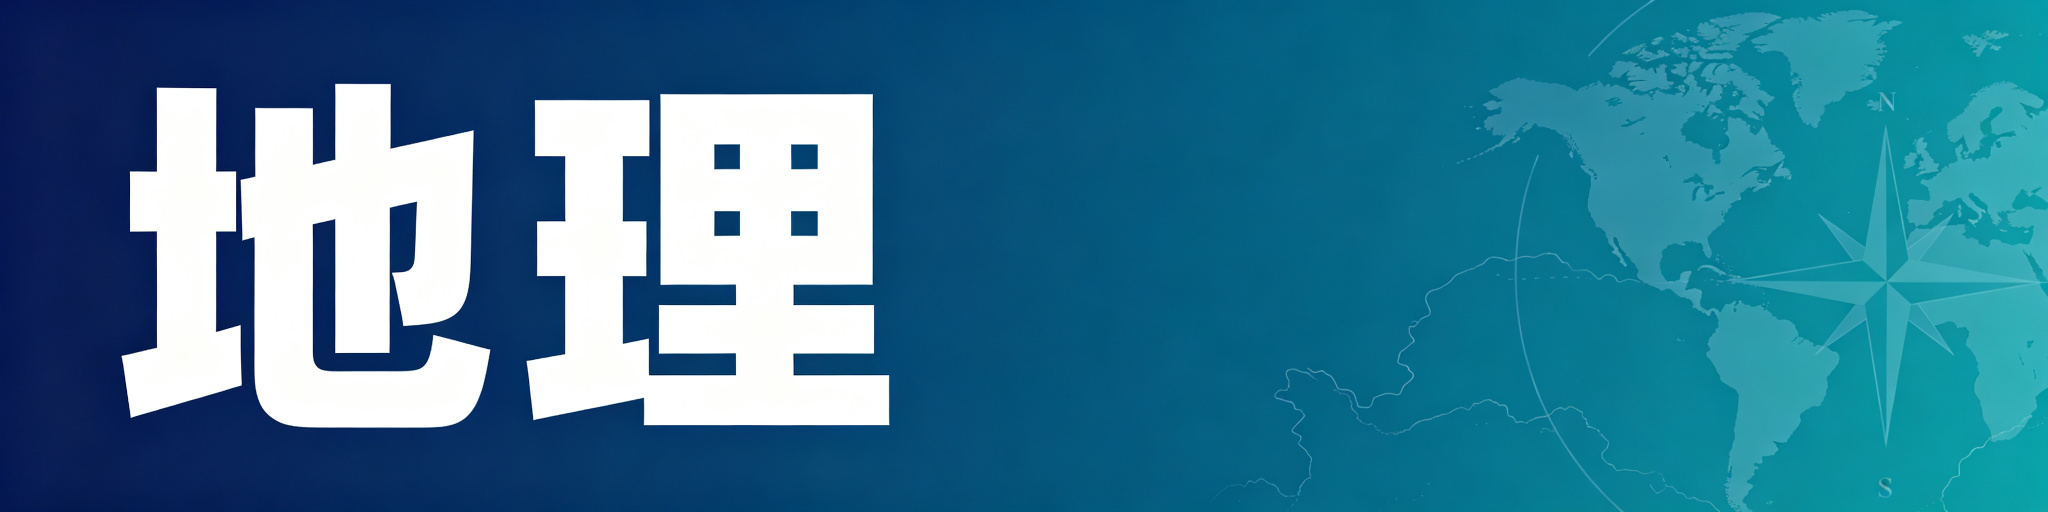
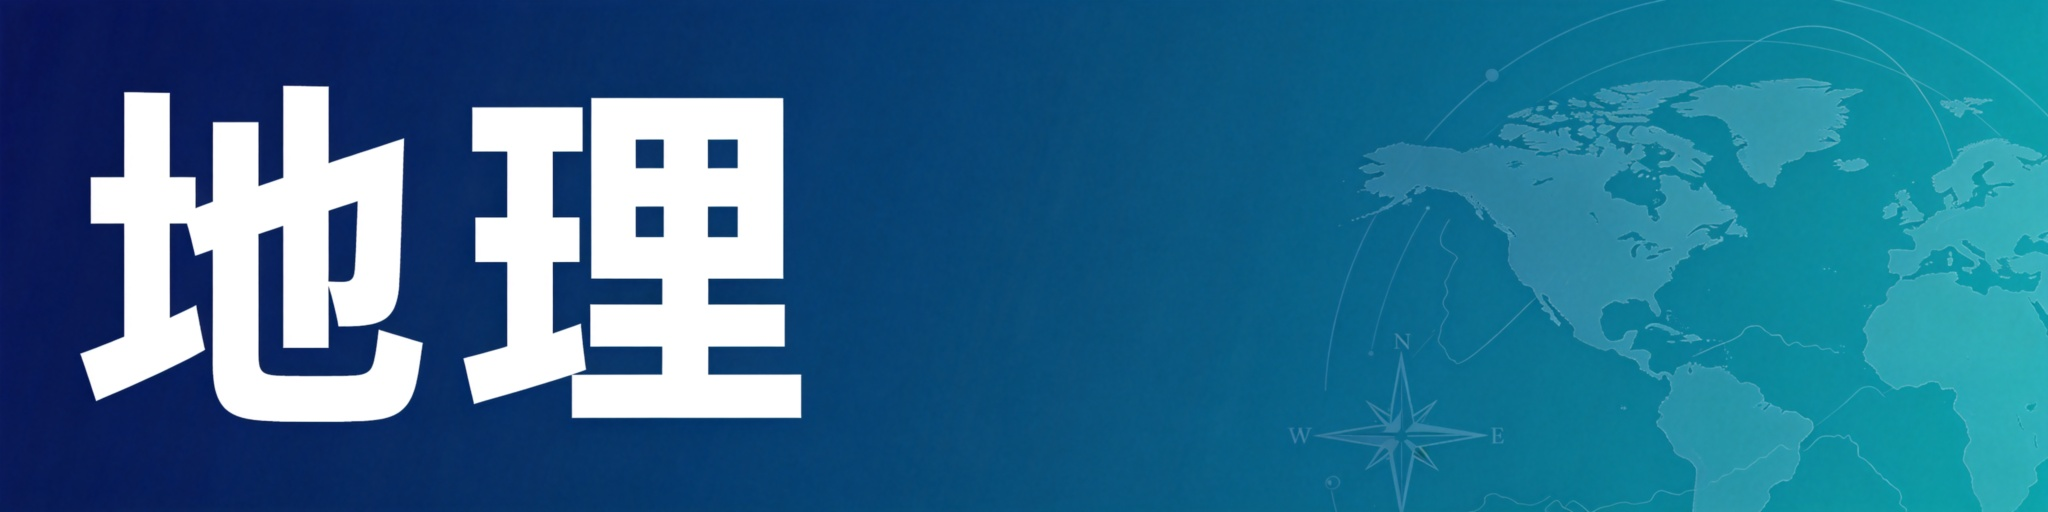
修复3个问题：首页资料排版统一+展开按钮+封面字体
1. 首页热门学习资料改为material封面卡片，与资料汇总页排版一致
2. 显示所有资料按钮点击后切换为收起所有资料，修复按钮与资料间距
3. 重新生成历史/地理/道德与法治封面，调小字体增加边距，文字完整显示
4. material卡片样式移入主CSS，首页和资料汇总页共用

diff --git a/index.html b/index.html
@@ -97,114 +97,71 @@
             <button class="filter-tab" onclick="filterResources(this,'plan')">教案课件</button>
         </div>
 
-        <div class="resource-grid">
-            <!-- 资料1 -->
-            <div class="resource-card" data-cat="english">
-                <div class="resource-icon" class="icon-bg-blue"><i class="fa-solid fa-book-open text-blue"></i></div>
-                <span class="resource-type type-free">电子课本 · 免费</span>
-                <h4>人教版英语九年级上册（官方版）</h4>
-                <div class="resource-meta">
-                    <span>官方版</span>
-                    <span>PDF · 12MB</span>
-                </div>
-                <p class="resource-desc">人教版九年级上册英语电子课本，高清PDF，可打印可在线阅读，配套课文音频。</p>
-                <div class="resource-footer">
-                    <span class="resource-price free">免费</span>
-                    <div >
-                        <a href="materials/电子课本/人教版英语九年级上册.pdf" target="_blank" class="resource-btn btn-get" class="btn-get">预览</a>
-                        <a href="materials/电子课本/人教版英语九年级上册.pdf" download class="resource-btn btn-buy">下载</a>
+        <div class="material-grid">
+            <div class="material-card" data-cat="english">
+                <div class="material-cover" style="background-image:url('images/cover_english.jpg');"></div>
+                <div class="material-info">
+                    <div class="material-name">人教版英语九年级上册（官方版）</div>
+                    <div class="material-meta">电子课本 · 官方版 · PDF · 12MB</div>
+                    <div class="material-actions">
+                        <a href="materials/电子课本/人教版英语九年级上册.pdf" target="_blank" class="material-btn btn-preview">预览</a>
+                        <a href="materials/电子课本/人教版英语九年级上册.pdf" download class="material-btn btn-download">下载</a>
                     </div>
                 </div>
             </div>
-            <!-- 资料2 -->
-            <div class="resource-card" data-cat="english">
-                <div class="resource-icon" class="icon-bg-green"><i class="fa-solid fa-book text-green"></i></div>
-                <span class="resource-type type-free">电子课本 · 免费</span>
-                <h4>人教版英语八年级下册</h4>
-                <div class="resource-meta">
-                    <span>人教版</span>
-                    <span>PDF · 18MB</span>
-                </div>
-                <p class="resource-desc">人教版八年级下册英语课本完整PDF，包含全部单元课文、单词表、语法讲解，适合预习复习。</p>
-                <div class="resource-footer">
-                    <span class="resource-price free">免费</span>
-                    <div >
-                        <a href="materials/电子课本/人教版英语八年级下册.pdf" target="_blank" class="resource-btn btn-get" class="btn-get">预览</a>
-                        <a href="materials/电子课本/人教版英语八年级下册.pdf" download class="resource-btn btn-buy">下载</a>
+            <div class="material-card" data-cat="english">
+                <div class="material-cover" style="background-image:url('images/cover_english.jpg');"></div>
+                <div class="material-info">
+                    <div class="material-name">人教版英语八年级下册</div>
+                    <div class="material-meta">电子课本 · 人教版 · PDF · 18MB</div>
+                    <div class="material-actions">
+                        <a href="materials/电子课本/人教版英语八年级下册.pdf" target="_blank" class="material-btn btn-preview">预览</a>
+                        <a href="materials/电子课本/人教版英语八年级下册.pdf" download class="material-btn btn-download">下载</a>
                     </div>
                 </div>
             </div>
-            <!-- 资料3 -->
-            <div class="resource-card" data-cat="math">
-                <div class="resource-icon" class="icon-bg-yellow"><i class="fa-solid fa-clipboard-list text-yellow"></i></div>
-                <span class="resource-type type-free">试卷真题 · 免费</span>
-                <h4>2026年陕西省中考数学试题</h4>
-                <div class="resource-meta">
-                    <span>2026</span>
-                    <span>PDF · 1.2MB</span>
-                    <span><i class="fa-solid fa-book text-red"></i> 小红书同步</span>
-                </div>
-                <p class="resource-desc">2026年陕西省中考数学试题，含答案解析，可直接打印使用。小红书同步更新解析。</p>
-                <div class="resource-footer">
-                    <span class="resource-price free">免费</span>
-                    <div >
-                        <a href="https://xhslink.cn/o/3DAHQDqtNqr" target="_blank" class="resource-btn btn-get" class="btn-xhs">小红书</a>
-                        <a href="materials/专题训练/2026年陕西省中考数学试题.pdf" target="_blank" class="resource-btn btn-get" class="btn-get">预览</a>
-                        <a href="materials/专题训练/2026年陕西省中考数学试题.pdf" download class="resource-btn btn-buy">下载</a>
+            <div class="material-card" data-cat="math">
+                <div class="material-cover" style="background-image:url('images/cover_math.jpg');"></div>
+                <div class="material-info">
+                    <div class="material-name">2026年陕西省中考数学试题</div>
+                    <div class="material-meta">试卷真题 · 2026 · PDF · 1.2MB · 小红书同步</div>
+                    <div class="material-actions">
+                        <a href="https://xhslink.cn/o/3DAHQDqtNqr" target="_blank" class="material-btn btn-xhs">小红书</a>
+                        <a href="materials/专题训练/2026年陕西省中考数学试题.pdf" target="_blank" class="material-btn btn-preview">预览</a>
+                        <a href="materials/专题训练/2026年陕西省中考数学试题.pdf" download class="material-btn btn-download">下载</a>
                     </div>
                 </div>
             </div>
-            <!-- 资料4 -->
-            <div class="resource-card" data-cat="math">
-                <div class="resource-icon" class="icon-bg-indigo"><i class="fa-solid fa-square-root-variable text-indigo"></i></div>
-                <span class="resource-type type-free">教辅资料 · 免费</span>
-                <h4>全品作业本九上数学 第一章 特殊平行四边形</h4>
-                <div class="resource-meta">
-                    <span>九年级上册</span>
-                    <span>PDF · 8.6MB</span>
-                </div>
-                <p class="resource-desc">全品作业本九年级上册数学第一章特殊平行四边形，配套练习，知识点覆盖全面，含详细答案。</p>
-                <div class="resource-footer">
-                    <span class="resource-price free">免费</span>
-                    <div >
-                        <a href="materials/全品作业本/全品作业本九上数学_第一章特殊平行四边形.pdf" target="_blank" class="resource-btn btn-get" class="btn-get">预览</a>
-                        <a href="materials/全品作业本/全品作业本九上数学_第一章特殊平行四边形.pdf" download class="resource-btn btn-buy">下载</a>
+            <div class="material-card" data-cat="math">
+                <div class="material-cover" style="background-image:url('images/cover_math.jpg');"></div>
+                <div class="material-info">
+                    <div class="material-name">全品作业本九上数学 第一章 特殊平行四边形</div>
+                    <div class="material-meta">教辅资料 · 九年级上册 · PDF · 8.6MB</div>
+                    <div class="material-actions">
+                        <a href="materials/全品作业本/全品作业本九上数学_第一章特殊平行四边形.pdf" target="_blank" class="material-btn btn-preview">预览</a>
+                        <a href="materials/全品作业本/全品作业本九上数学_第一章特殊平行四边形.pdf" download class="material-btn btn-download">下载</a>
                     </div>
                 </div>
             </div>
-            <!-- 资料5 -->
-            <div class="resource-card" data-cat="math">
-                <div class="resource-icon" class="icon-bg-pink"><i class="fa-solid fa-bullseye text-pink"></i></div>
-                <span class="resource-type type-free">专题训练 · 免费</span>
-                <h4>二次函数专题1 求目标点横纵比大小</h4>
-                <div class="resource-meta">
-                    <span>中考专题</span>
-                    <span>PDF · 4.0MB</span>
-                </div>
-                <p class="resource-desc">中考数学二次函数压轴题专题训练，求目标点横纵比大小等经典题型，附带详细解题步骤和答案。</p>
-                <div class="resource-footer">
-                    <span class="resource-price free">免费</span>
-                    <div >
-                        <a href="materials/专题训练/二次函数专题1_求目标点横纵比大小.pdf" target="_blank" class="resource-btn btn-get" class="btn-get">预览</a>
-                        <a href="materials/专题训练/二次函数专题1_求目标点横纵比大小.pdf" download class="resource-btn btn-buy">下载</a>
+            <div class="material-card" data-cat="math">
+                <div class="material-cover" style="background-image:url('images/cover_math.jpg');"></div>
+                <div class="material-info">
+                    <div class="material-name">二次函数专题1 求目标点横纵比大小</div>
+                    <div class="material-meta">专题训练 · 中考专题 · PDF · 4.0MB</div>
+                    <div class="material-actions">
+                        <a href="materials/专题训练/二次函数专题1_求目标点横纵比大小.pdf" target="_blank" class="material-btn btn-preview">预览</a>
+                        <a href="materials/专题训练/二次函数专题1_求目标点横纵比大小.pdf" download class="material-btn btn-download">下载</a>
                     </div>
                 </div>
             </div>
-            <!-- 资料6 -->
-            <div class="resource-card" data-cat="plan">
-                <div class="resource-icon" class="icon-bg-red"><i class="fa-solid fa-book text-red"></i></div>
-                <span class="resource-type type-free">高中教材 · 免费</span>
-                <h4>高中数学A版 必修第一册</h4>
-                <div class="resource-meta">
-                    <span>高中必修</span>
-                    <span>PDF · 22MB</span>
-                </div>
-                <p class="resource-desc">高中数学A版必修第一册教材，高清PDF，包含集合、函数、指数对数等内容，适合预习复习。</p>
-                <div class="resource-footer">
-                    <span class="resource-price free">免费</span>
-                    <div >
-                        <a href="materials/高中数学/高中数学A版_数学 必修 第一册（A版）.pdf" target="_blank" class="resource-btn btn-get" class="btn-get">预览</a>
-                        <a href="materials/高中数学/高中数学A版_数学 必修 第一册（A版）.pdf" download class="resource-btn btn-buy">下载</a>
+            <div class="material-card" data-cat="plan">
+                <div class="material-cover" style="background-image:url('images/cover_math.jpg');"></div>
+                <div class="material-info">
+                    <div class="material-name">高中数学A版 必修第一册</div>
+                    <div class="material-meta">高中教材 · 高中必修 · PDF · 22MB</div>
+                    <div class="material-actions">
+                        <a href="materials/高中数学/高中数学A版_数学 必修 第一册（A版）.pdf" target="_blank" class="material-btn btn-preview">预览</a>
+                        <a href="materials/高中数学/高中数学A版_数学 必修 第一册（A版）.pdf" download class="material-btn btn-download">下载</a>
                     </div>
                 </div>
             </div>

diff --git a/css/style.css b/css/style.css
@@ -873,6 +873,124 @@ a:hover { text-decoration: underline; }
   text-align: center;
 }
 
+/* ===== 资料卡片（资料汇总/首页通用）===== */
+.material-grid {
+  display: grid;
+  grid-template-columns: repeat(3, 1fr);
+  gap: 16px;
+}
+.material-card {
+  background: #fff;
+  border: 1px solid #e0e7ef;
+  border-radius: 6px;
+  overflow: hidden;
+  display: flex;
+  flex-direction: column;
+  transition: all .2s;
+  position: relative;
+}
+.material-card::before {
+  content: '';
+  position: absolute;
+  top: 0; left: 0; right: 0;
+  height: 2px;
+  background: linear-gradient(90deg, #0066ff, #00d4ff);
+  z-index: 2;
+}
+.material-card:hover {
+  border-color: #0066ff;
+  box-shadow: 0 4px 24px rgba(0, 102, 255, 0.18);
+  transform: translateY(-3px);
+}
+.material-cover {
+  width: 100%;
+  height: 96px;
+  background-size: cover;
+  background-position: center;
+  background-repeat: no-repeat;
+  flex-shrink: 0;
+  position: relative;
+}
+.material-cover::after {
+  content: '';
+  position: absolute;
+  inset: 0;
+  background: linear-gradient(180deg, transparent 50%, rgba(0,0,0,0.15) 100%);
+}
+.material-info {
+  padding: 14px 16px;
+  flex: 1;
+  display: flex;
+  flex-direction: column;
+}
+.material-name {
+  font-size: 14px;
+  font-weight: 600;
+  color: #1a1a1a;
+  margin-bottom: 8px;
+  line-height: 1.4;
+  display: -webkit-box;
+  -webkit-line-clamp: 2;
+  -webkit-box-orient: vertical;
+  overflow: hidden;
+}
+.material-meta {
+  font-size: 12px;
+  color: #888;
+  margin-bottom: 12px;
+  flex: 1;
+  line-height: 1.5;
+}
+.material-actions {
+  display: flex;
+  gap: 8px;
+  padding-top: 12px;
+  border-top: 1px solid #f0f2f5;
+}
+.material-btn {
+  flex: 1;
+  padding: 7px 0;
+  border-radius: 4px;
+  font-size: 12px;
+  font-weight: 500;
+  text-decoration: none;
+  cursor: pointer;
+  border: 1px solid #e0e7ef;
+  background: #fff;
+  color: #555;
+  text-align: center;
+  transition: all .15s;
+  font-family: inherit;
+}
+.material-btn:hover { text-decoration: none; }
+.btn-preview {
+  background: #0066ff;
+  border-color: #0066ff;
+  color: #fff;
+}
+.btn-preview:hover {
+  background: #0052cc;
+  border-color: #0052cc;
+  box-shadow: 0 2px 10px rgba(0, 102, 255, 0.35);
+}
+.btn-download {
+  background: #fff;
+  border-color: #0066ff;
+  color: #0066ff;
+}
+.btn-download:hover { background: #f0f5ff; }
+.btn-xhs {
+  background: #fff;
+  border-color: #ff2442;
+  color: #ff2442;
+}
+.btn-xhs:hover { background: #fff0f2; }
+@media (max-width: 900px) {
+  .material-grid { grid-template-columns: repeat(2, 1fr); }
+}
+@media (max-width: 640px) {
+  .material-grid { grid-template-columns: 1fr; }
+}
 /* ===== 工具类 ===== */
 .text-center { text-align: center; }
 .mt-0 { margin-top: 0 !important; }
@@ -972,6 +1090,9 @@ a:hover { text-decoration: underline; }
   font-family: inherit;
 }
 .toggle-all-btn:hover { background: var(--primary-dark); }
+.toggle-all-btn.expanded { background: var(--text-secondary); }
+.toggle-all-btn.expanded:hover { background: var(--text); }
+#toggleAllWrap { margin-bottom: 32px; }
 .filter-result {
   text-align: center;
   margin-top: 12px;

diff --git a/search.html b/search.html
@@ -817,10 +817,10 @@ function toggleAll() {
     let btn = document.getElementById("toggleAllBtn");
     if (showAll) {
         btn.textContent = "收起所有资料";
-        btn.style.background = "#6b7280";
+        btn.classList.add("expanded");
     } else {
         btn.textContent = "显示所有资料";
-        btn.style.background = "#2563eb";
+        btn.classList.remove("expanded");
     }
     loadList();
     if (showAll) document.getElementById("materialsContainer").scrollIntoView({ behavior: 'smooth', block: 'start' });

diff --git a/js/main.js b/js/main.js
@@ -12,7 +12,7 @@ function toggleMenu() {
 function filterResources(btn, cat) {
     document.querySelectorAll('.filter-tab').forEach(t => t.classList.remove('active'));
     if (btn) btn.classList.add('active');
-    document.querySelectorAll('.resource-card').forEach(card => {
+    document.querySelectorAll('.material-card').forEach(card => {
         const cats = card.getAttribute('data-cat') || '';
         if (cat === 'all' || cats.includes(cat)) {
             card.style.display = 'flex';
